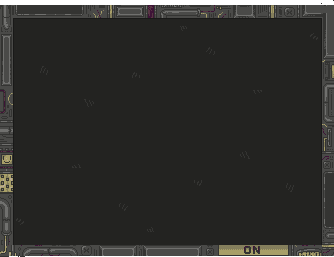
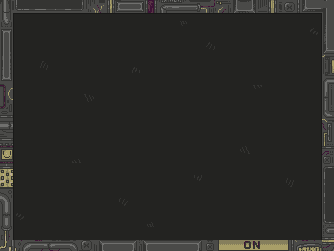
wires background

diff --git a/Wires GUI.py b/Wires GUI.py
@@ -31,6 +31,9 @@ import sys
 import numpy as np
 from character_overlay import draw_character
 
+GAME_W = 1024
+GAME_H = 576
+
 MINIGAME_WINDOW_X = 300
 MINIGAME_WINDOW_Y = 232
 MINIGAME_WINDOW_W = 425
@@ -368,11 +371,15 @@ def main(screen=None, clock=None):
     display.set_caption("Wires GUI")
 
     main_screen = screen
-    game_surface = pygame.Surface((1024, 576), pygame.SRCALPHA)
+    game_surface = pygame.Surface((GAME_W, GAME_H), pygame.SRCALPHA)
     screen = game_surface
 
     intro_bg = pygame.image.load("img_keys/base.png").convert()
     intro_bg = pygame.transform.scale(intro_bg, main_screen.get_size())
+
+    wire_bg = pygame.image.load("img_keys/WireBG.png").convert()
+    wire_bg = pygame.transform.scale(wire_bg, game_surface.get_size())
+
     minigame_rect = pygame.Rect(
         MINIGAME_WINDOW_X,
         MINIGAME_WINDOW_Y,
@@ -428,7 +435,7 @@ def main(screen=None, clock=None):
         K_5: 4,
     }
 
-    previous_wire_values = [False for _ in component_wires]
+    previous_wire_values = [False for _ in component_wires] if RPi else [False] * len(wire_order)
 
     game_over = False
     won = False
@@ -477,7 +484,7 @@ def main(screen=None, clock=None):
                     game_over = True
                     won = False
 
-        screen.fill(colors["black"])
+        screen.blit(wire_bg, (0, 0))
 
         # Top row input circles
         for circle_name, wire in [

diff --git a/bomb_configs.py b/bomb_configs.py
@@ -6,7 +6,7 @@
 
 # constants
 DEBUG = False        # debug mode?
-RPi = True          # is this running on the RPi?
+RPi = False          # is this running on the RPi?
 SHOW_BUTTONS = False # show the Pause and Quit buttons on the main LCD GUI?
 COUNTDOWN = 300      # the initial bomb countdown value (seconds)
 NUM_STRIKES = 5      # the total strikes allowed before the bomb "explodes"
